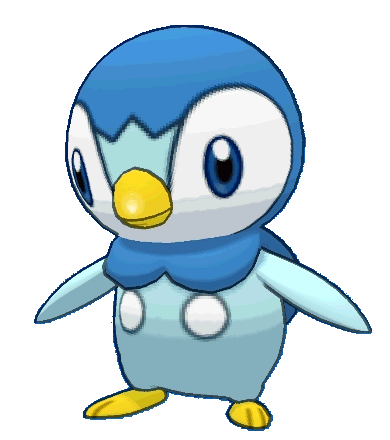
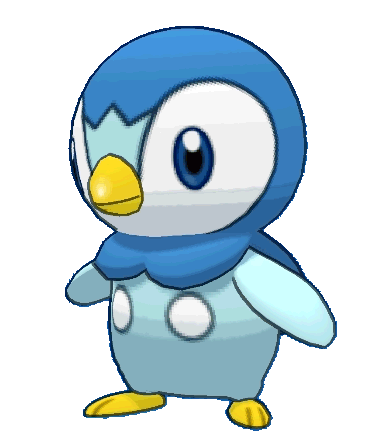
personal project lowered number of frames in pipidle

diff --git a/exploresg/flutter_service_worker.js b/exploresg/flutter_service_worker.js
@@ -3,7 +3,7 @@ const MANIFEST = 'flutter-app-manifest';
 const TEMP = 'flutter-temp-cache';
 const CACHE_NAME = 'flutter-app-cache';
 const RESOURCES = {
-  "assets/AssetManifest.json": "9870cfedb4f985df400c51c8f74172a9",
+  "assets/AssetManifest.json": "c30448a8111ba76d84266fc0ddf70cfc",
 "assets/assets/audio/bubble.wav": "d6c7affcfd45bed8af8f8d74d31491c7",
 "assets/assets/audio/diamondpokecenter.wav": "8033ad88ddbc3988b871144801134d96",
 "assets/assets/audio/jump.wav": "2654db821ac5215d10e30869b5110ff9",
@@ -27,45 +27,15 @@ const RESOURCES = {
 "assets/assets/images/pipattack2.png": "e6a4c15727661c8fb2a574eea339125a",
 "assets/assets/images/pipbw.gif": "63380e2f2e4d771036caeffaa9b90719",
 "assets/assets/images/pipidle1.png": "8134356a52fd345a23aa273999017b04",
-"assets/assets/images/pipidle10.png": "e0242ff76b2f09474393a1da35b257a5",
-"assets/assets/images/pipidle11.png": "c661df4b60396a06e6868023e3db0c5b",
-"assets/assets/images/pipidle12.png": "fe53ba76bd0ce5c75618679b40483dfa",
-"assets/assets/images/pipidle13.png": "93f266d7d41d102bb1c4e26817c3fe5d",
-"assets/assets/images/pipidle14.png": "d49d52e1739bfa8484835c9b87566e02",
-"assets/assets/images/pipidle15.png": "5d7396b40737ac8835bb837f24a3f2b9",
-"assets/assets/images/pipidle16.png": "66b957fe8b57bbe772f764e9caa82107",
-"assets/assets/images/pipidle17.png": "b8dd469edf7cc5ed4647c5c28ffb84c8",
-"assets/assets/images/pipidle18.png": "815e750e8123e71bf70ab5888f9ec1e5",
-"assets/assets/images/pipidle19.png": "656ac374ec45038622e2fca8062e79ef",
-"assets/assets/images/pipidle2.png": "bff453553cd764358a20e12706aaa2cf",
-"assets/assets/images/pipidle20.png": "ca957aa6adf9916478ea8a279e42fdd0",
-"assets/assets/images/pipidle21.png": "bfd0e30a209659534af3ba91a43ac12b",
-"assets/assets/images/pipidle22.png": "cb416b16f2e11f2ac007e60234ca70f3",
-"assets/assets/images/pipidle23.png": "f55f318a78101b9227edadb82e9cc2c8",
-"assets/assets/images/pipidle24.png": "daf6a7490465b4c8130c7c31fc7fe24c",
-"assets/assets/images/pipidle25.png": "b55fed2f12e1f82c87f885cbb7d15962",
-"assets/assets/images/pipidle26.png": "c5fd22d5e4457c1b807a3de63775967a",
-"assets/assets/images/pipidle27.png": "37235e21943a8a7cd4aab8296dc6e5ac",
-"assets/assets/images/pipidle28.png": "c5055fcbc7ac6c37dbf3d878a163e5a7",
-"assets/assets/images/pipidle29.png": "e400b820d896f888567157b18ff1a34d",
-"assets/assets/images/pipidle3.png": "702335459d18831a48cfbbde46069fa2",
-"assets/assets/images/pipidle30.png": "76f9c186bbd440be7dc99d8461e07596",
-"assets/assets/images/pipidle31.png": "f434faaca578e5a970f476e88fb4d094",
-"assets/assets/images/pipidle32.png": "127babd1d2abe0889d13354172088796",
-"assets/assets/images/pipidle33.png": "7e62bdea16bc834bdcf452c0b666e922",
-"assets/assets/images/pipidle34.png": "ee11e312d42e15fe8b0d59e1509aa8d5",
-"assets/assets/images/pipidle35.png": "a310893f25b64654ee6335b432fbde71",
-"assets/assets/images/pipidle36.png": "f216212bf85f790414ddcc05cc594289",
-"assets/assets/images/pipidle37.png": "976f0161a13e6440c3a9e16e6803a0e9",
-"assets/assets/images/pipidle38.png": "93959e2e12fd8e2337d3b1d6e9ee19f3",
-"assets/assets/images/pipidle39.png": "ddfd50d6ea7118b0ab6c4804597a1968",
-"assets/assets/images/pipidle4.png": "b520280dcf63bef295800d401fa76d3d",
-"assets/assets/images/pipidle40.png": "e46de86fd1922c9d67fee3e3240cdae6",
-"assets/assets/images/pipidle5.png": "0986a5a24192b00d4a0456740e34cfa7",
-"assets/assets/images/pipidle6.png": "4d15dce527a05f8161163ce0de2e4cc0",
-"assets/assets/images/pipidle7.png": "6d4169a8707ad73654330ea003e67dd1",
-"assets/assets/images/pipidle8.png": "34095bd8b5525f859c8e12959c2f9c2f",
-"assets/assets/images/pipidle9.png": "f5f5feb36caab1d222c7f5ff201caf84",
+"assets/assets/images/pipidle10.png": "976f0161a13e6440c3a9e16e6803a0e9",
+"assets/assets/images/pipidle2.png": "0986a5a24192b00d4a0456740e34cfa7",
+"assets/assets/images/pipidle3.png": "f5f5feb36caab1d222c7f5ff201caf84",
+"assets/assets/images/pipidle4.png": "93f266d7d41d102bb1c4e26817c3fe5d",
+"assets/assets/images/pipidle5.png": "b8dd469edf7cc5ed4647c5c28ffb84c8",
+"assets/assets/images/pipidle6.png": "bfd0e30a209659534af3ba91a43ac12b",
+"assets/assets/images/pipidle7.png": "b55fed2f12e1f82c87f885cbb7d15962",
+"assets/assets/images/pipidle8.png": "e400b820d896f888567157b18ff1a34d",
+"assets/assets/images/pipidle9.png": "7e62bdea16bc834bdcf452c0b666e922",
 "assets/assets/images/pipskip1.png": "cb6a76fae713d81f88a0bc64d4aa9297",
 "assets/assets/images/pipskip2.png": "b78cc147644d3cb41751df788fbf20b9",
 "assets/assets/images/pipskip3.png": "f4a5698283699ad2aa703b1b476bdbb4",
@@ -113,9 +83,9 @@ const RESOURCES = {
 "icons/Icon-512.png": "96e752610906ba2a93c65f8abe1645f1",
 "icons/Icon-maskable-192.png": "c457ef57daa1d16f64b27b786ec2ea3c",
 "icons/Icon-maskable-512.png": "301a7604d45b3e739efc881eb04896ea",
-"index.html": "1c63e3f95f2730e8282913bb5908150f",
-"/": "1c63e3f95f2730e8282913bb5908150f",
-"main.dart.js": "1d2447c7991d80b397fa1ef6d51220ac",
+"index.html": "3424eeaef4de8b4c5d72f0c1fdec9110",
+"/": "3424eeaef4de8b4c5d72f0c1fdec9110",
+"main.dart.js": "a2c0bf70e0b6c7278f6229a66143e253",
 "manifest.json": "41d4462bb04f02961db9781338a5c279",
 "version.json": "7a8cee6b1f21b697788782d341ea2eb4"
 };

diff --git a/exploresg/main.dart.js b/exploresg/main.dart.js
@@ -32218,7 +32218,7 @@ return A.z(A.cq("bgsungei.jpg"),$async$M)
 case 5:q.R8=c
 h=$.Rk
 s=6
-return A.z(q.eq("pipidle",40),$async$M)
+return A.z(q.eq("pipidle",10),$async$M)
 case 6:h.b=c
 h=$.Rm
 s=7
@@ -32654,7 +32654,7 @@ Ff(a,b){var s=0,r=A.D(t.x),q,p,o,n,m,l
 var $async$eq=A.E(function(c,d){if(c===1)return A.A(d,r)
 while(true)switch(s){case 0:m=J.ha(b,t.S)
 for(p=0;p<b;p=o){o=p+1
-m[p]=o}n=a==="pipidle"?2:0.5
+m[p]=o}n=a==="pipidle"?1.5:0.5
 if(a==="pipattack")n=0.1
 l=A
 s=3

diff --git a/exploresg/index.html b/exploresg/index.html
@@ -34,7 +34,7 @@
 
   <script>
     // The value below is injected by flutter build, do not touch.
-    var serviceWorkerVersion = '3837664840';
+    var serviceWorkerVersion = '556017386';
   </script>
   <!-- This script adds the flutter initialization JS code -->
   <script src="flutter.js" defer></script>
